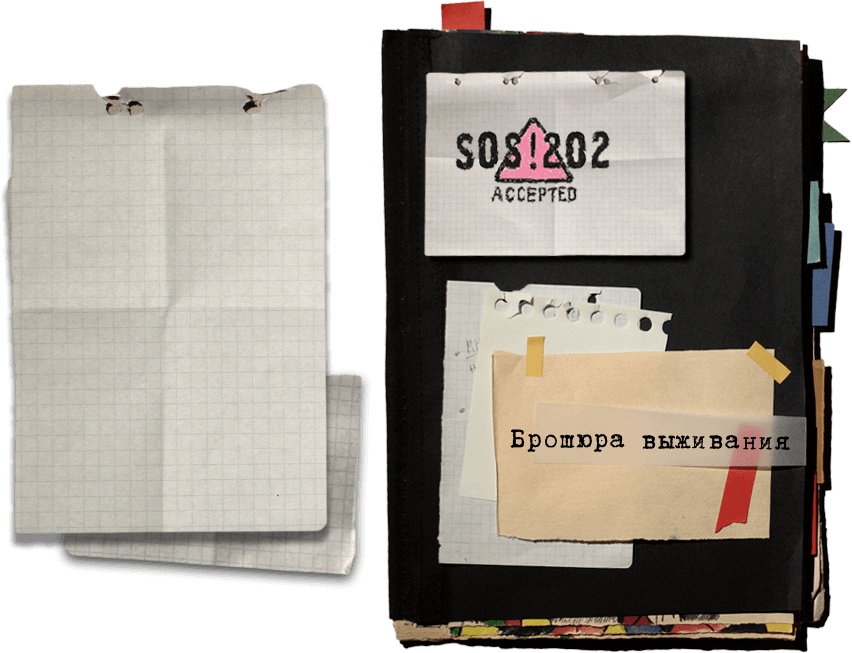
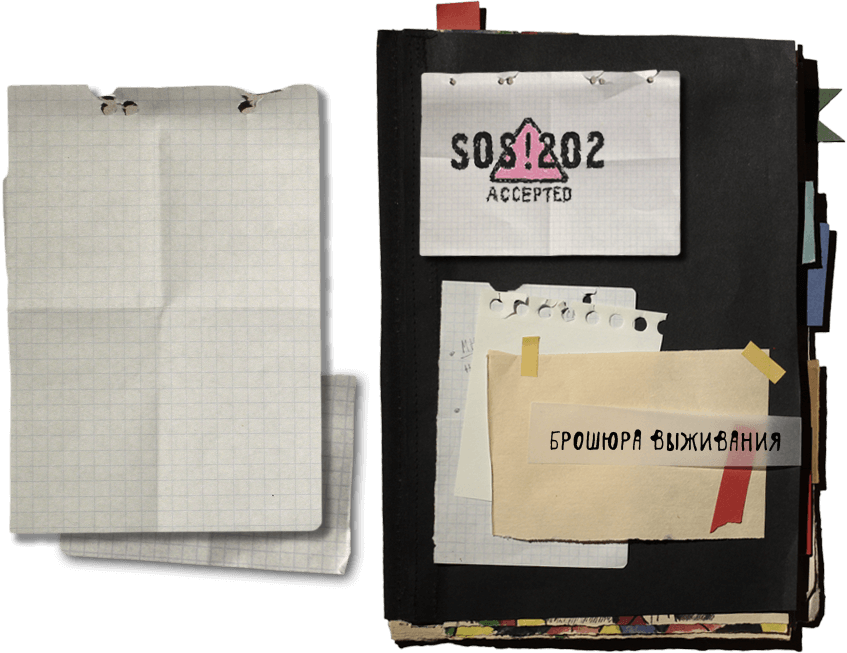
Add bookmark, fix styles

diff --git a/source/main.css b/source/main.css
@@ -50,14 +50,15 @@ main .container {
   position: relative;
 }
 main .bookmark {
-  width: 52px;
-  height: 87px;
+  width: 230px;
+  height: 50px;
   position: absolute;
   right: 75px;
-  top: -8px;
+  top: 5px;
+  background: url(img/quiz/violence-type-btn.png) no-repeat center center;
 }
 main .bookmark:hover {
-  background: url(img/quiz/type-of-violence/bookmark-hover.png) no-repeat center center;
+  background: url(img/quiz/violence-type-btn-hover.png) no-repeat center center;
 }
 .main-container {
   width: 847px;
@@ -132,7 +133,8 @@ main .bookmark:hover {
   margin: auto;
   position: relative;
   background: url(img/modal-bg-start-page.png);
-  padding: 50px 45px 100px 50px;
+  background-size: cover;
+  padding: 50px 20px 100px 70px;
   margin-top: 25px;
   box-sizing: border-box;
 }
@@ -629,6 +631,7 @@ main .bookmark:hover {
   padding-top: 5px;
 }
 .main-container.quiz-strategies {
+  width: 875px;
   background: url(img/quiz/strategies/girl-bg.png) no-repeat;
 }
 .main-container.quiz-strategies .left-block {
@@ -647,7 +650,7 @@ main .bookmark:hover {
   background: url(img/quiz/strategies/helper-bg.png) no-repeat;
 }
 .main-container.quiz-strategies .next {
-  right: -35px;
+  right: -10px;
 }
 .main-container.quiz-strategies .strategy-btn {
   display: block;

diff --git a/source/less/common.less b/source/less/common.less
@@ -56,14 +56,16 @@ main {
     }
 
     .bookmark {
-        width: 52px;
-        height: 87px;
+        width: 230px;
+        height: 50px;
         position: absolute;
         right: 75px;
-        top: -8px;
+        top: 5px;
+
+        background: url(img/quiz/violence-type-btn.png) no-repeat center center;
 
         &:hover {
-            background: url(img/quiz/type-of-violence/bookmark-hover.png) no-repeat center center;
+            background: url(img/quiz/violence-type-btn-hover.png) no-repeat center center;
         }
     }
 }
@@ -149,7 +151,8 @@ main {
     margin: auto;
     position: relative;
     background: url(img/modal-bg-start-page.png);
-    padding: 50px 45px 100px 50px;
+    background-size: cover;
+    padding: 50px 20px 100px 70px;
     margin-top: 25px;
     box-sizing: border-box;
 }

diff --git a/Components/Quiz/Strategies/Strategies.html b/Components/Quiz/Strategies/Strategies.html
@@ -23,9 +23,6 @@
 
 
     <div class="left-block">
-        <!--<p ng-repeat="p in $ctrl.result[0].violenceType[0].text1 track by $index">-->
-            <!--{{p}}-->
-        <!--</p>-->
         <div class="strategy-btn survival"
            ng-click="$ctrl.clickToOpenSurvival()"></div>
         <div class="strategy-btn coping"
@@ -37,9 +34,7 @@
     </div>
 
     <div class="right-block ">
-        <!--<p ng-repeat="p in $ctrl.result[0].violenceType[0].text2 track by $index">-->
-            <!--{{p}}-->
-        <!--</p>-->
+
     </div>
 
 

diff --git a/Components/Quiz/Strategies/Strategies.component.js b/Components/Quiz/Strategies/Strategies.component.js
@@ -17,7 +17,19 @@
 
         character = SourcesService.getCharacter();
 
+        $ctrl.character = function () {
+          return SourcesService.getCharacter();
+        };
+
         type = SourcesService.getViolenceType();
+
+        if (character === undefined) {
+            character = 'girl'
+        }
+
+        if (type === undefined) {
+            type = 'homeViolence'
+        }
 
         console.log(character);
         console.log(type);

diff --git a/Services/Source.service.js b/Services/Source.service.js
@@ -5,7 +5,7 @@
         .service('SourcesService', SourcesService);
 
     function SourcesService($rootScope) {
-        let $ctrl = this, age, character = 'girl', isolation, openness, common, type,
+        let $ctrl = this, age, character, isolation, openness, common, type,
             ageStack = false,
             opennessStack = false,
             isolationStack = false,

diff --git a/source/less/quiz/strategies.less b/source/less/quiz/strategies.less
@@ -1,6 +1,8 @@
 .main-container {
   &.quiz-strategies {
 
+    width: 875px;
+
     .left-block {
       left: 110px;
     }
@@ -23,7 +25,7 @@
     }
 
     .next {
-      right: -35px;
+      right: -10px;
     }
 
     .strategy-btn {

diff --git a/templates/bookmark.html b/templates/bookmark.html
@@ -1,3 +1,1 @@
-<a href="#/results" class="bookmark" title="Расчет ресурсов">
-    <img src="source/img/quiz/type-of-violence/bookmark.png" alt="">
-</a>
+<a href="#!/calculation" class="bookmark"></a>
